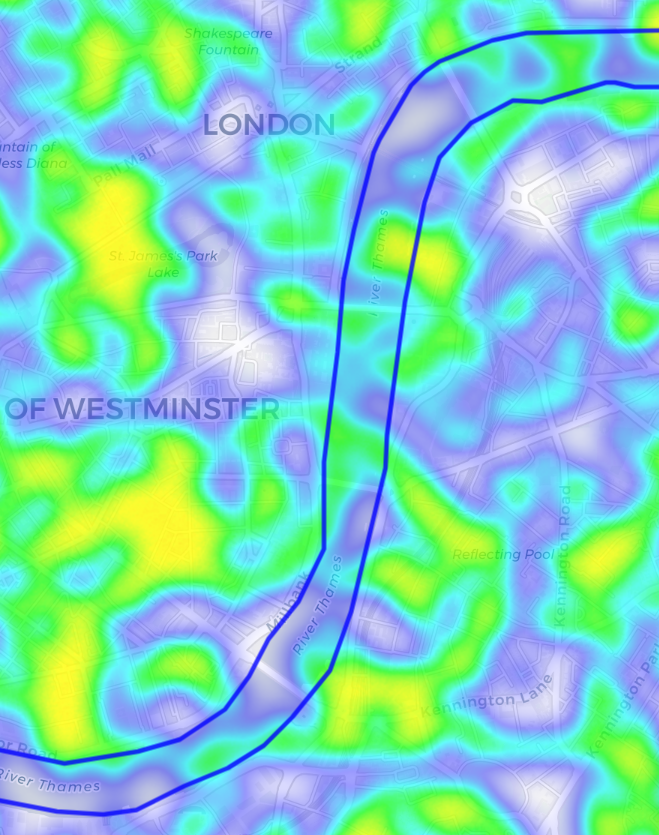
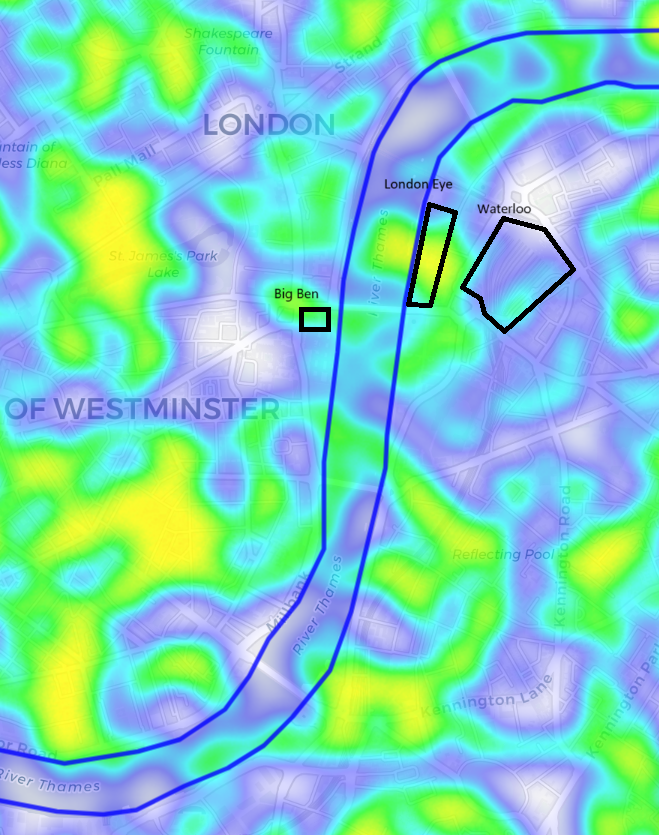
enhanced stdbscan section

diff --git a/html/stdbscan_analysis.html b/html/stdbscan_analysis.html
@@ -81,6 +81,8 @@
             margin-top: 10px;
             font-weight: bold;
         }
+
+
     </style>
 </head>
 <body>
@@ -100,15 +102,7 @@
         To illustrate the algorithm's capabilities, three specific examples—Westminster, Greenwich, and Regent's Park—were selected to demonstrate how movement clusters manifest in distinct urban areas.
     </p>
     <p style="text-align: center; padding: 0 20px;">
-        A slider interface allows for navigation through the various time intervals, enabling the visualization of movement patterns over time.
-        For each predefined interval, a span of 20 days was chosen to ensure the analysis remained computationally manageable.
-        In this study, the epsilon parameters were set with eps1 at 0.0006 and eps2 encompassing approximately one week.
-        However, it is important to note that these parameter choices are not ideal; converting the movement data into a metric system would have allowed for more accurate and undistorted search radii for the clusters.
-        Additionally, more extensive testing would have been necessary to optimally select the parameters, but hardware limitations prevented this.
-        Nonetheless, several effective clusters were still identified and are analyzed in the following sections.
-        These limitations are further discussed in the limitations section.
-        By analyzing how movements are distributed in space and change over time, the algorithm uncovered significant trends, providing valuable insights into urban movement behaviors.
-    </p>
+        A button interface allows navigation through the time intervals, visualizing movement patterns at each station. Each interval spans 20 days to keep the analysis computationally feasible. The final interval is omitted as it is too short and falls outside the 20-day span. The analysis focuses on three study areas: Greenwich, Westminster, and Regent's Park, examining movement patterns within these regions. Two epsilon parameters were set. eps1 was set to 0.0006 degrees search radius and eps2 to approximately one week. These values are not ideal; converting movement data into a metric system would ensure more precise cluster radii. Limited hardware also restricted extensive parameter testing. Despite these constraints, several effective clusters were identified and analyzed, revealing key trends in urban movement patterns. Limitations are discussed further in their respective section.    </p>
 
     <div class="accordion">
         <h3 onclick="toggleAccordion('content1')">
@@ -124,13 +118,14 @@
                 <button id="next-westminster" onclick="changeImage('westminster', 1)">Next →</button>
             </div>
             <div>
-                <p>
-                    Applying ST-DBSCAN to Westminster’s movement data revealed distinct patterns across the different time intervals.
-                    During less restrictive phases, clear movement hotspots emerged near key landmarks such as Big Ben and major subway stations like Waterloo.
-                    As restrictions became tighter, overall movement spread more evenly across the entire area.
-                    Interestingly, under stricter conditions, hotspots were not solely concentrated around tourist attractions but were also distributed throughout residential neighborhoods,
-                    resulting in numerous clusters in these areas.
-                </p>
+                <p>The data in this study are based on mean values, not absolute quantities, offering insight into movement patterns.</p>
+
+                <p>In the first image, only a few hotspots are visible. In the southern part of Westminster, hotspots correspond to residential and office areas. Around bridges, hotspots are visible, but only on horizontal bridges. Vertical bridges lack clear clustering, reflecting the limitations of the Cartesian map, where horizontal clusters are more easily detected than vertical ones. This highlights the need for metric coordinates to avoid such distortions.</p>
+
+                <p>During lockdowns, distinct hotspots emerge as movement becomes more localized and restricted, reducing the significance of these patterns. In the summer, with eased restrictions, movement increased but did not return to pre-pandemic levels. Tourism in Westminster remained below normal, although clearer hotspots appeared compared to strict lockdown periods.</p>
+
+                <p>At the end of the second lockdown near Christmas, a prominent hotspot at Waterloo Station suggests more people traveling for work or tourism, signaling a partial recovery in activity.</p>
+
             </div>
         </div>
         <section><hr class="border-line" color="#007BFF"></section>
@@ -150,9 +145,9 @@
                 <button id="next-greenwich" onclick="changeImage('greenwich', 1)">Next →</button>
             </div>
             <div>
-                <p>
-                    The next area of focus is the Greenwich district, particularly near Greenwich Park. The analysis reveals that during restrictive periods, movement was primarily concentrated in residential neighborhoods, while main streets exhibited significantly fewer clusters. In contrast, during less restrictive times—especially before the COVID-19 pandemic—there was increased activity along major thoroughfares, like the A200 main road.
-                </p>
+                <p>In Greenwich, a noticeable pattern emerges along the A200. As restrictions become more stringent, movement shifts away from the main road into other areas, such as residential neighborhoods. This indicates how people adapt their behavior to avoid busy roads during lockdown periods.</p>
+
+                <p>Analyzing movement in Greenwich Park, however, presents challenges. The park is almost entirely vertically oriented on the map, and due to the limitations of the Cartesian map, no meaningful observations can be made. This highlights the distortion caused by horizontal bias in clustering, further emphasizing the need for future studies to adopt a metric coordinate system.</p>
             </div>
         </div>
         <section><hr class="border-line" color="#007BFF"></section>
@@ -172,23 +167,49 @@
                 <button id="next-regents" onclick="changeImage('regents', 1)">Next →</button>
             </div>
             <div>
-                <p>
-                    Before the COVID-19 pandemic, distinct clusters were evident within the zoo and sporadically distributed throughout the park. During lockdown periods, movement clusters became more dispersed across other areas of the park, especially during the first lockdown when the zoo was entirely closed. In later lockdowns, the zoo operated under strict regulations, resulting in isolated clusters within the zoo region at specific times. By the end of the year, as restrictions were lifted, the average movement still not returned to normal amounts of movement, which explains the high intensity of clusters in the region. The clusters were once again broadly distributed, including within the zoo.
-                </p>
+
+                <p>Before the pandemic, clear hotspots were visible in Regent's Park, including within the London Zoo. During the lockdown, movement became more distributed and balanced, similar to previous examples. However, it is evident that the zoo was closed during this time. Although the plot may suggest a cluster inside the zoo, this cluster appears to be part of the larger adjacent cluster and not actually within the zoo, likely due to the visualization method.</p>
+
+                <p>The summer intervals show a partially open zoo (with some restrictions) and clear movement patterns within the zoo. These patterns disappear again during the second lockdown, although the visualization remains somewhat ambiguous. Toward the end of the second lockdown, people begin visiting the zoo again, with distinct hotspots forming within its boundaries.</p>
+
             </div>
         </div>
         <section><hr class="border-line" color="#007BFF"></section>
     </div>
 </section>
 
+<section><hr class="border-line" color="#007BFF"></section>
+
+<section style="text-align: center; padding: 20px; font-size: 18px;">
+
+    <h3 style="color: #007BFF;">Limitations</h3>
+
+    <p>
+        Several limitations impacted the scope and accuracy of this study. Firstly, the computational time required was prohibitively long, even with optimal hardware, which restricted the analysis to smaller areas and confined time intervals to 20 days each. Although a comprehensive map of Greater London was attempted by stitching together numerous small rectangles, each rectangle measured 0.02 degrees in latitude and 0.02 degrees in longitude. This approach introduced significant distortions, as evidenced by clear dividing lines between the rectangles. Consequently, the large-scale map was deemed unsuitable for meaningful analysis. An example of the stitching of the rectangles can be seen in the image below.    </p>
+
+    <p>
+        Additionally, the movement data were provided in WGS84 coordinates, which necessitates conversion to a metric system to ensure uniformity in the epsilon parameter (eps1) and to facilitate undistorted cluster radii. The lack of metric conversion resulted in clusters being predominantly identified in the horizontal direction rather than vertically. Future work should prioritize transforming the coordinates to a metric system to enhance clustering accuracy, which was not feasible within the temporal constraints of this study.
+    </p>
+
+    <p>
+        Furthermore, hardware limitations hindered extensive parameter testing, limiting the ability to optimize epsilon values thoroughly. As a result, the analysis was confined to smaller regions, potentially affecting the generalizability of the findings. With access to more advanced hardware, future research could expand the analysis to larger areas and employ more rigorous parameter optimization, thereby improving the robustness and comprehensiveness of the movement pattern analysis.
+    </p>
+    <br>
+    <figure>
+        <img src="../data/img/limitationsstdbscan.png" alt="Description of the image" style="width:400px; height:400px;">
+        <figcaption>An excerpt of the full map where DBSCAN does not function correctly due to transition issues, and therefore is not utilized</figcaption>
+    </figure>
+</section>
+
+<section><hr class="border-line" color="#007BFF"</section>
+
 <section id="STDBSCAN-summary" style="text-align: center; padding: 20px; font-size: 18px;">
     <h3 style="color: #007BFF;">Summary of Results</h3>
     <p>
-        The ST-DBSCAN analysis offered valuable insights into London's spatial and temporal movement patterns, despite some limitations during the process.
-        Key clusters were identified near prominent landmarks such as Big Ben and Greenwich Park during less restrictive phases, while lockdown periods
-        revealed a more even spread of movement. However, due to parameter constraints and computational challenges, the results are not fully optimal
-        and should be interpreted with caution. Despite these difficulties, the findings successfully demonstrate the algorithm’s potential to uncover
-        movement patterns and its utility for urban mobility analysis.
+        The ST-DBSCAN analysis identified distinct movement patterns in Westminster, Greenwich, and Regent's Park, with pre-pandemic hotspots in residential, office, and tourist areas like the London Zoo. During the first lockdown, overall movement decreased and became more scattered, resulting in numerous less meaningful hotspots. As restrictions eased, movement increased but remained below pre-pandemic levels, influenced by the Three Tier System and subsequent lockdowns.
+    </p>
+    <p>
+        Specifically, Westminster showed recovery around Waterloo Station, Greenwich shifted movement to residential areas, and Regent's Park's patterns fluctuated with the London Zoo's status. Limitations included map distortions from the WGS84 system and limited computational resources. Future studies should use a metric system and improved hardware to enhance accuracy and expand the analysis.
     </p>
 </section>
 <section><hr class="border-line" color="#007BFF"></section>

diff --git a/index.html b/index.html
@@ -272,7 +272,9 @@
 
         <section id="STDBSCAN">
             <h3>3.2 ST-DBSCAN</h3>
-            <a href="html/stdbscan_analysis.html">Click here to see the STDBSCAN results</a>
+            <div style="text-align: center; margin-top: 20px;">
+                <a href="html/stdbscan_analysis.html" class="button-link">Explore complete ST-DBSCAN Results</a>
+            </div>
         </section>
 
         <br>
